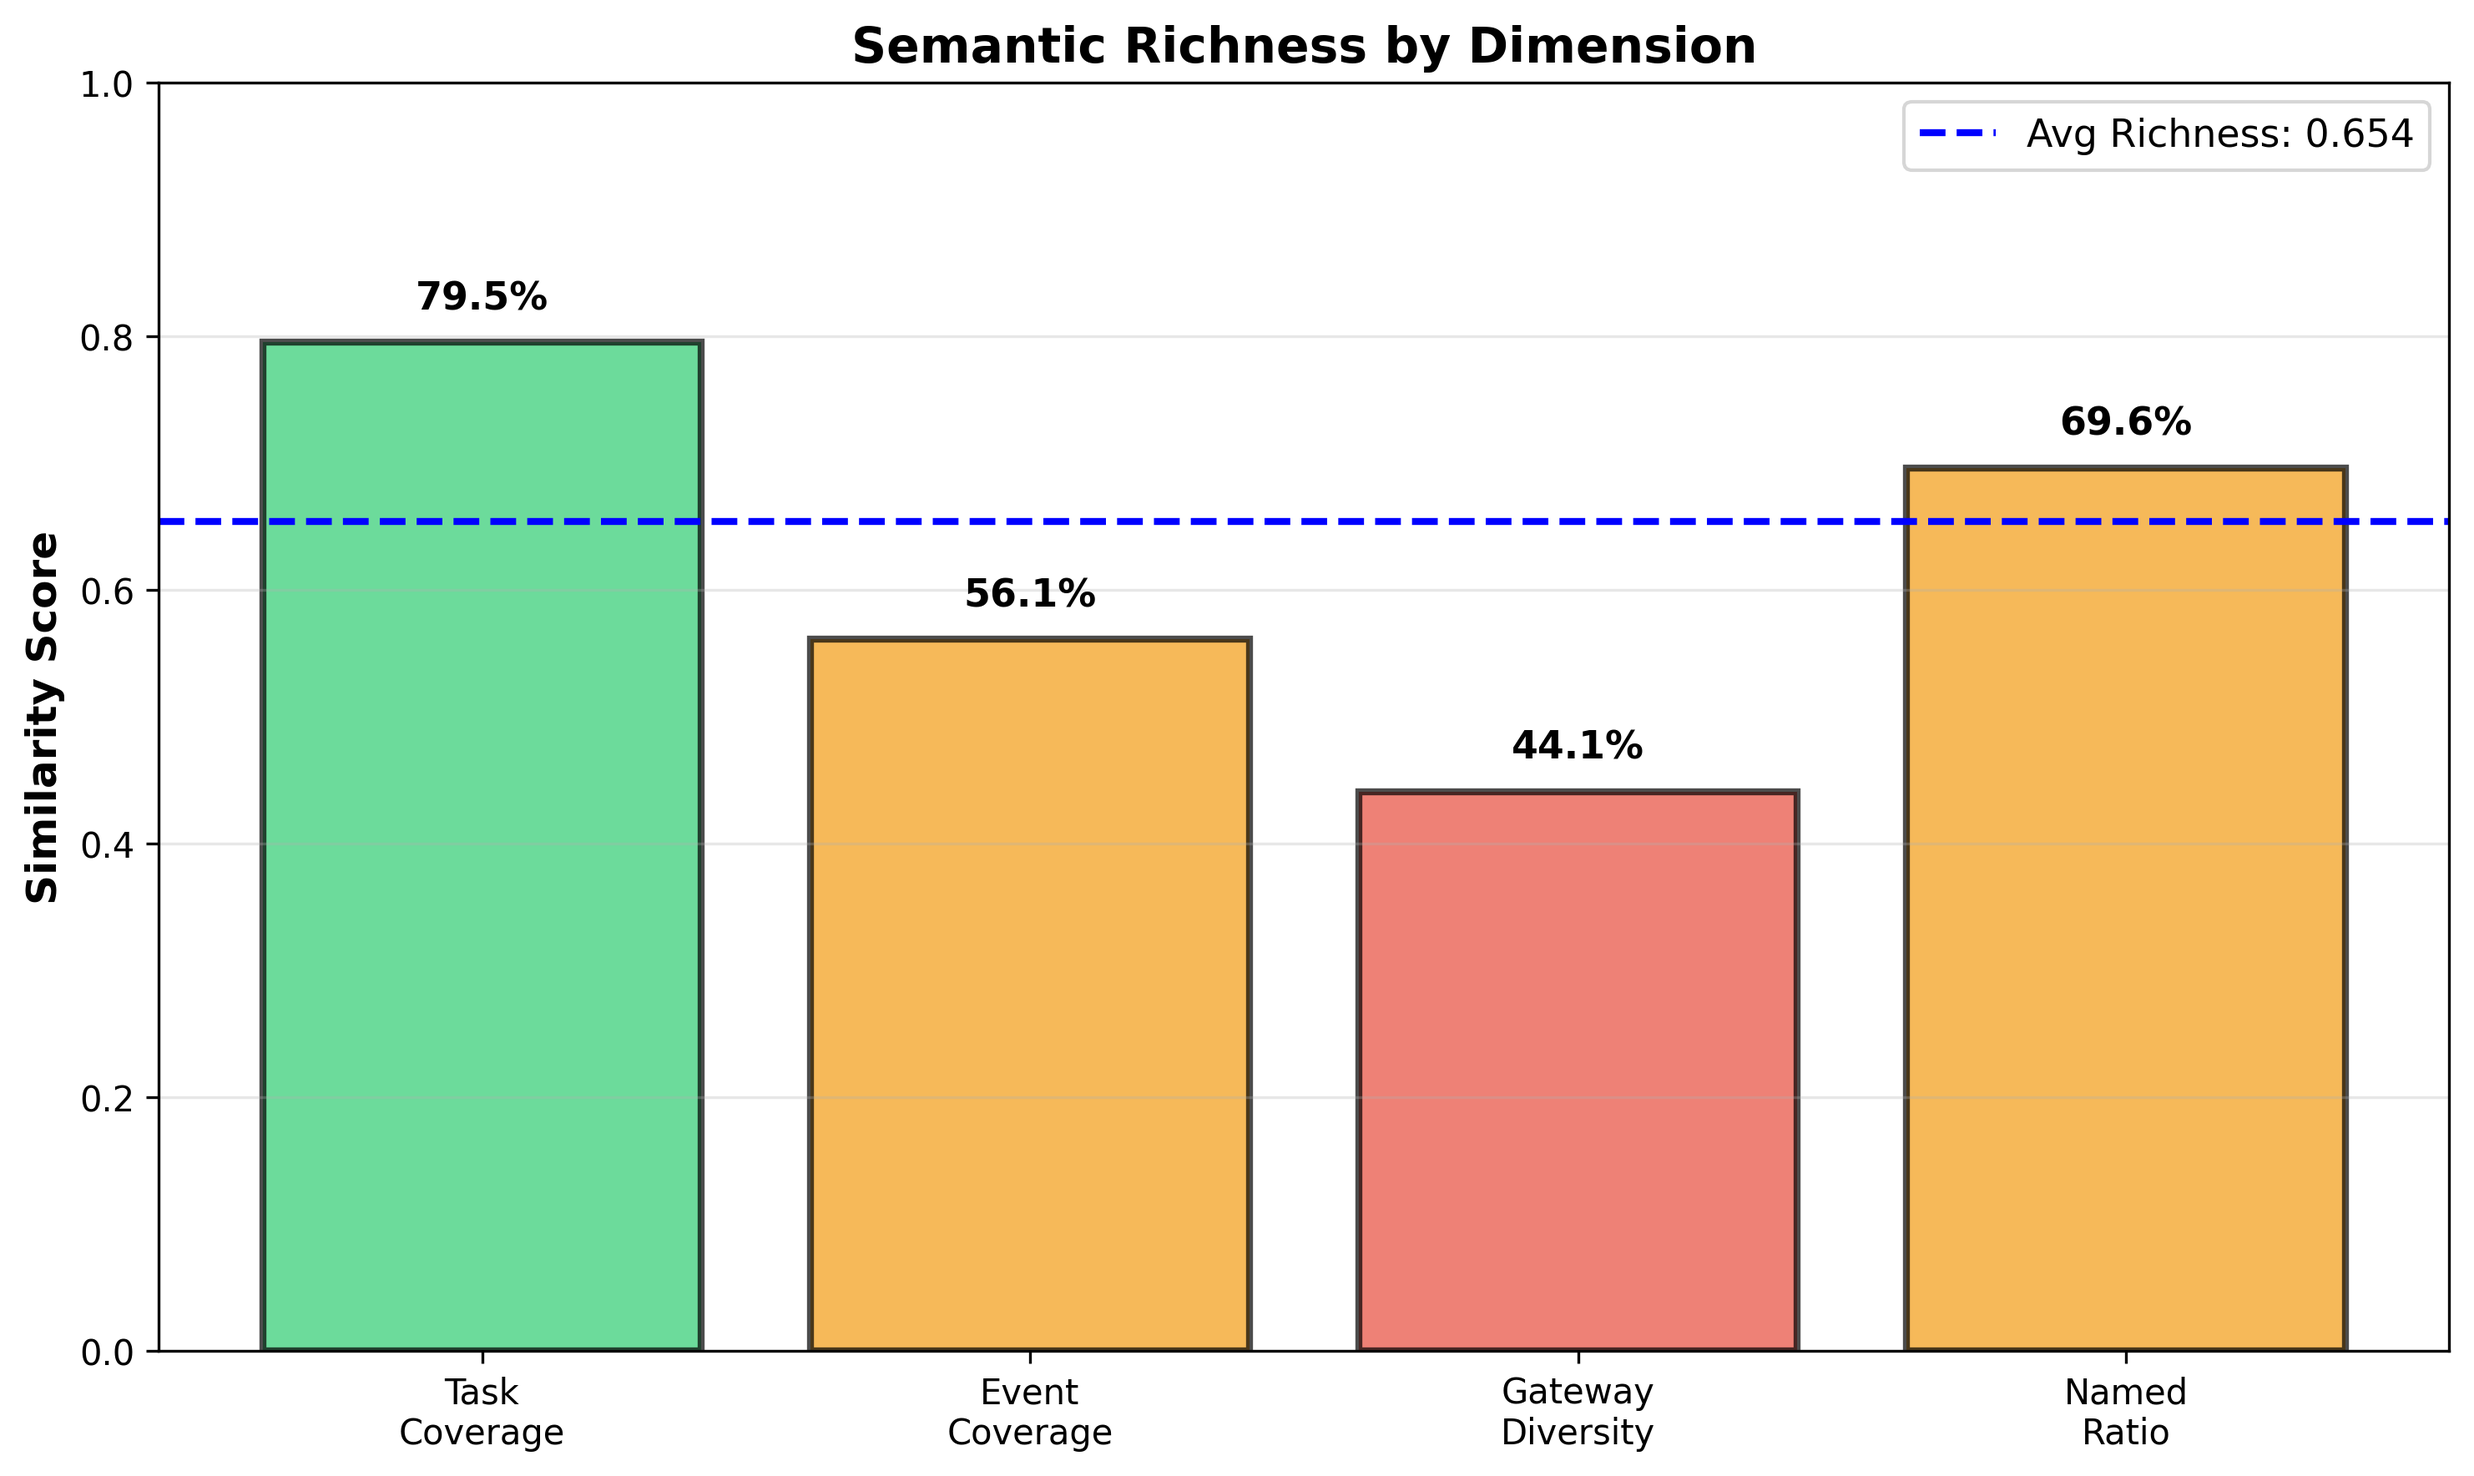
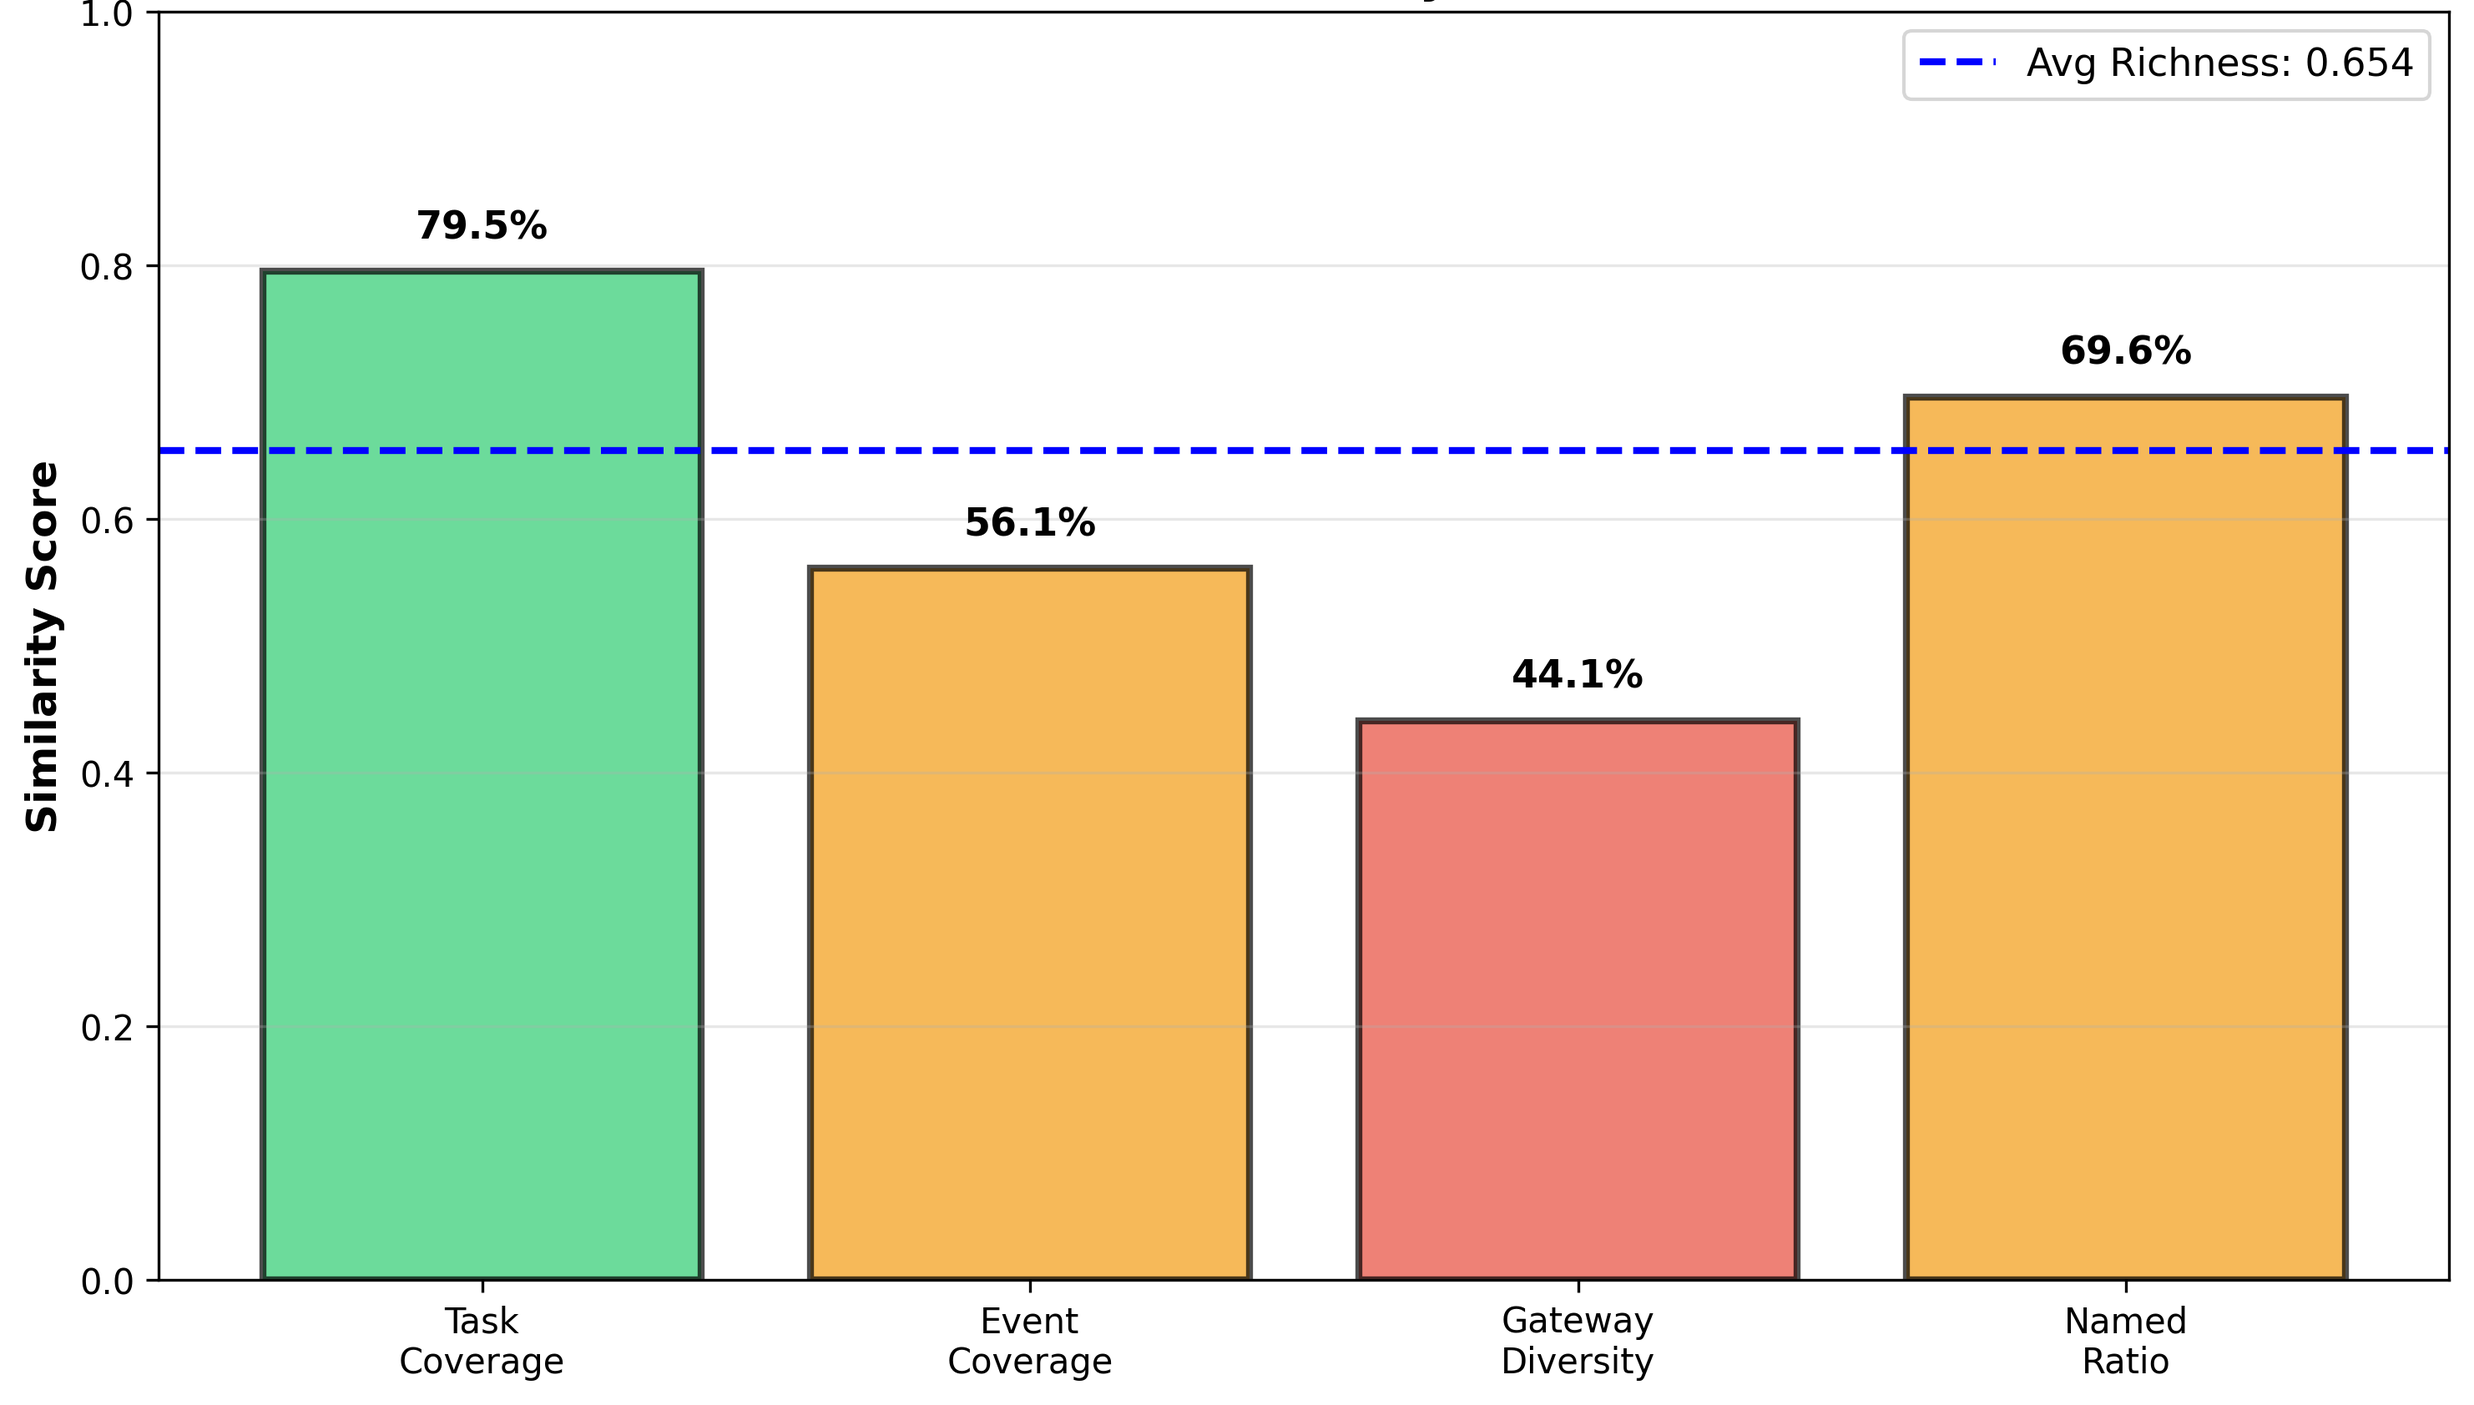
feat: Add  PMR evaluation and related data files.

diff --git a/evals/evaluate_pmr.py b/evals/evaluate_pmr.py
@@ -1,0 +1,142 @@
+import os
+import csv
+import glob
+from pathlib import Path
+
+# Try to import tiktoken, otherwise fallback to simple split
+try:
+    import tiktoken
+    ENCODING = tiktoken.get_encoding("cl100k_base")
+    HAS_TIKTOKEN = True
+except ImportError:
+    HAS_TIKTOKEN = False
+    print("Warning: tiktoken not found. Using whitespace splitting for token count approximation.")
+
+# Configuration
+BASE_DIR = Path("evals")
+MODELS = {
+    "mistral-large": BASE_DIR / "mistral-large",
+    "mistral-medium": BASE_DIR / "mistral-medium",
+    "bpmn_gold": BASE_DIR / "bpmn_gold"
+}
+
+OUTPUT_FILE = BASE_DIR / "pmr_evaluation.csv"
+
+def count_tokens(text):
+    """Counts tokens using tiktoken or fallback."""
+    if HAS_TIKTOKEN:
+        return len(ENCODING.encode(text))
+    else:
+        # Fallback: simple whitespace split
+        return len(text.split())
+
+def evaluate_model_tokens(model_dir):
+    """Calculates average token count for a specific model directory."""
+    if not model_dir.exists():
+        print(f"Directory not found: {model_dir}")
+        return 0
+
+    bpmn_files = list(model_dir.glob("*.bpmn"))
+    if not bpmn_files:
+        print(f"No .bpmn files found in {model_dir}")
+        return 0
+
+    total_tokens = 0
+    file_count = len(bpmn_files)
+
+    for bpmn_file in bpmn_files:
+        try:
+            with open(bpmn_file, 'r', encoding='utf-8') as f:
+                content = f.read()
+                total_tokens += count_tokens(content)
+        except Exception as e:
+            print(f"Error reading {bpmn_file}: {e}")
+
+    return total_tokens / file_count if file_count > 0 else 0
+
+def calculate_compact_grade(avg_tokens, gold_tokens):
+    """Calculates compact grade relative to gold standard (Grade 2)."""
+    if gold_tokens == 0:
+        return 2
+    
+    # If tokens are fewer (more compact), grade increases.
+    # If tokens are more (less compact), grade decreases.
+    # Baseline: Gold = 2 points.
+    # Logic: Grade = 2 * (Gold / Generated)
+    # Capped at 5, minimum 1.
+    
+    ratio = gold_tokens / avg_tokens if avg_tokens > 0 else 1
+    grade = 2 * ratio
+    
+    # Round to nearest 0.5 or integer? Let's do 2 decimal places for precision then round for display if needed.
+    # User table has integers/halves (e.g. 3.33, 3.50).
+    return min(5.0, max(1.0, grade))
+
+def main():
+    results = []
+    token_counts = {}
+    
+    print("Starting PMR evaluation...")
+    
+    # First pass: Calculate tokens for all models
+    for model_name, model_dir in MODELS.items():
+        print(f"Evaluating {model_name}...")
+        token_counts[model_name] = evaluate_model_tokens(model_dir)
+
+    gold_tokens = token_counts.get("bpmn_gold", 0)
+    if gold_tokens == 0:
+        print("Warning: bpmn_gold has 0 tokens. Compact grades may be inaccurate.")
+
+    # Second pass: Generate metrics
+    for model_name in MODELS.keys():
+        avg_tokens = token_counts.get(model_name, 0)
+        
+        # Calculate Compact grade
+        if model_name == "bpmn_gold":
+            compact_grade = 2.0 # Baseline
+        else:
+            compact_grade = calculate_compact_grade(avg_tokens, gold_tokens)
+
+        metrics = {
+            "PMR": model_name,
+            "Avg. Token Count": f"{avg_tokens:.2f}",
+            "Compact": f"{compact_grade:.2f}",
+            "Expressive": "5 (100%)", # Static
+            "Human readable": 2, # Static
+            "Vizualisable": 3, # Static
+            "Usable": 4, # Static
+            "Extensible": 5 # Static
+        }
+        results.append(metrics)
+
+    if not results:
+        print("No results generated.")
+        return
+
+    # Define columns
+    columns = [
+        "PMR", "Avg. Token Count", "Compact", "Expressive", 
+        "Human readable", "Vizualisable", "Usable", "Extensible"
+    ]
+
+    try:
+        with open(OUTPUT_FILE, 'w', newline='', encoding='utf-8') as f:
+            writer = csv.DictWriter(f, fieldnames=columns)
+            writer.writeheader()
+            writer.writerows(results)
+        
+        print(f"\nSuccessfully saved PMR evaluation to: {OUTPUT_FILE}")
+        
+        # Print preview
+        print("\nEvaluation Results:")
+        header_str = " | ".join(columns)
+        print(header_str)
+        print("-" * len(header_str))
+        for row in results:
+            print(" | ".join(str(row[col]) for col in columns))
+            
+    except Exception as e:
+        print(f"Error saving CSV: {e}")
+
+if __name__ == "__main__":
+    main()
